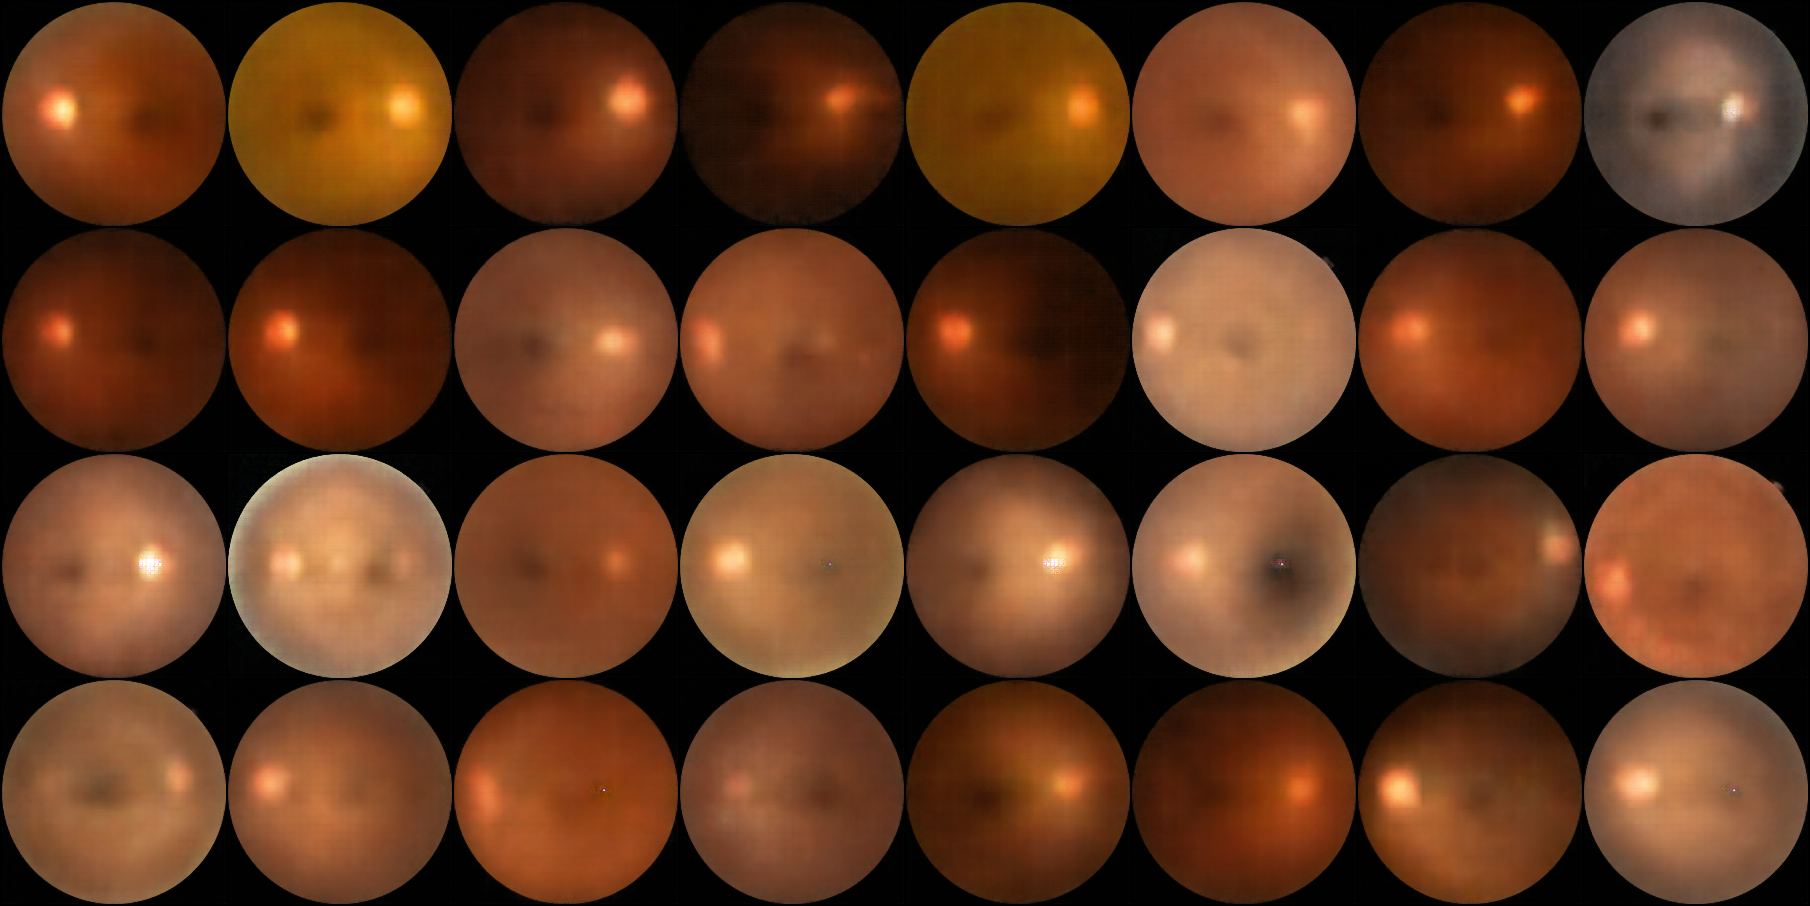
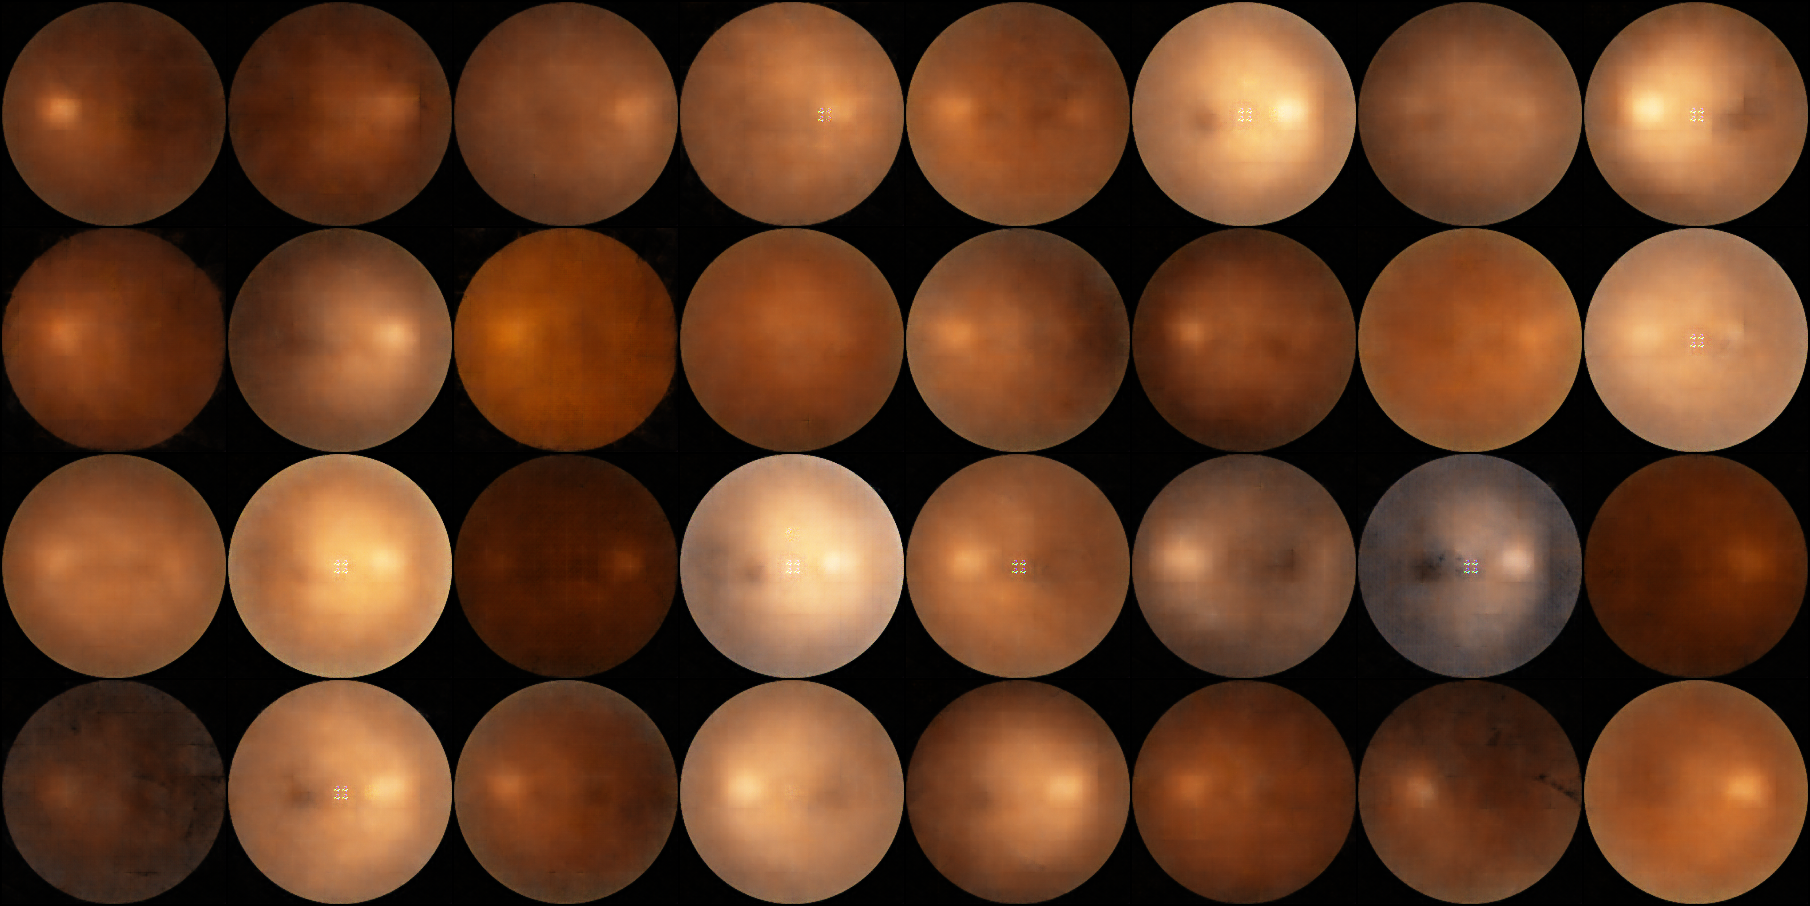
Progress
TODO
anomaly detection part and the CNN

diff --git a/Model/run.py b/Model/run.py
@@ -2,12 +2,17 @@ import torch
 import torchmetrics
 import torchvision
 import VAE
+import numpy as np
+import math
 import RetinalDataLoader
 from VAE import AnomalyVariationalAutoEncoder
 from RetinalDataLoader import RetinalDiseaseLoader
 from torch.utils.data import DataLoader
 from torch.optim import Adam
+from torch.optim.lr_scheduler import ReduceLROnPlateau
+from torchvision import datasets
 from torchvision.utils import save_image
+from torchvision.transforms import v2 
 import matplotlib.pyplot as plt
 
 #CONFIG
@@ -15,26 +20,38 @@ import matplotlib.pyplot as plt
 DEVICE=torch.device('cuda' if torch.cuda.is_available() else 'cpu')
 print(DEVICE)
 INPUTCHANNELS=3
-LATENTDIM=256
+LATENTDIM=64
 RDIM=32*7*7
 LATENTSHAPE=(32,7,7)
 BATCHSIZE=32
 
-KLSCALEFIX=224*224*3 #divide by this so that the KL loss wont dominate when we use mean instead of sum 
+RECONSCALEFIX=224*224*3 #divide by this so that the KL loss wont dominate when we use mean instead of sum 
 
+#0.001
 LR=1e-3
 
-BETA=0.5
 
-NUMEPOCHS=300
+BETA=20
+NUMEPOCHS=210
 
 
 #DATASET LOADER
 trainDatasetLoad=RetinalDiseaseLoader(r'C:\Users\hamza\OneDrive\Desktop\HOnours\Advanced Ai\Proj Data\archive\process2\train(Processed)\Normal',True)
 validationDatasetLoad=RetinalDiseaseLoader(r'C:\Users\hamza\OneDrive\Desktop\HOnours\Advanced Ai\Proj Data\archive\process2\val(Processed)\Normal',False)
 
+transform=v2.Compose([
+    v2.RandomRotation(15),
+    v2.ToTensor(),
+])
+
+anomalyDatasetLoad=datasets.ImageFolder(r'C:\Users\hamza\OneDrive\Desktop\HOnours\Advanced Ai\Proj Data\archive\process2\trainAnomaly',transform)
+
+
+
+
 trainSet=DataLoader(trainDatasetLoad,batch_size=BATCHSIZE,shuffle=True)
 validSet=DataLoader(validationDatasetLoad,batch_size=BATCHSIZE,shuffle=False)
+anomalyset=DataLoader(anomalyDatasetLoad,batch_size=BATCHSIZE,shuffle=True)
 
 #MODEL DEFINITION
 
@@ -44,10 +61,12 @@ AnomalyVAE=AnomalyVariationalAutoEncoder(INPUTCHANNELS,LATENTDIM,RDIM,LATENTSHAP
 
 #optimisers/early stopping/loss
 
-lossFn=torch.nn.MSELoss(reduction="mean")
+lossFn=torch.nn.MSELoss(reduction="sum")
+
 
 optimiser=Adam(AnomalyVAE.parameters(),lr=LR)
 
+lrScheduler=ReduceLROnPlateau(optimizer=optimiser,mode='min',patience=40,factor=0.5)
 
 
 
@@ -59,9 +78,30 @@ torch.cuda.manual_seed(seed)
 torch.backends.cudnn.deterministic = True
 
 
-def trainingStep(epoch):
+def sigmoidKlAnnealing(timeStep,slope=1,start=None):
+    return float(1/(1+np.exp(slope*(start-float(timeStep)))))
+    
+
+def anomalyCheck(epoch):
+    for b,(x,y) in enumerate(anomalyset):
+        x,y=x.to(DEVICE),y.to(DEVICE)
+
+def savingModel(Epoch,model,loss,optimiser,Path):
+
+    torch.save({
+        'modelStateDict':model.state_dict(),
+        'loss':loss,
+        'optimiserStateDict':optimiser.state_dict(),
+        'epoch':Epoch
+    },Path)
+
+
+
+
+def trainingStep(epoch,BETA):
     epochRecon,epochKL,epochTotal=0.0,0.0,0.0
     AnomalyVAE.train()
+    
     for batch,x in enumerate(trainSet):
         #reset the grad start each epoch so it does not accumulate
         
@@ -73,11 +113,17 @@ def trainingStep(epoch):
 
         reconLoss=lossFn(xRecon,x)
 
-        klLoss=(-0.5*torch.sum(1+logvar-mu.pow(2)-logvar.exp(),dim=1)).mean()
+        klLoss=(-0.5*torch.sum(1+logvar-mu.pow(2)-logvar.exp()))
 
-        klLoss=klLoss/KLSCALEFIX
 
-        totalLoss=reconLoss+klLoss
+        #Fix the scale of the losses before backprop and sumation
+        reconLoss=reconLoss/RECONSCALEFIX
+
+        klLoss=klLoss/RECONSCALEFIX
+
+        totalLoss=reconLoss+BETA*klLoss
+     
+   
 
         #backpropagate the loss 
 
@@ -85,7 +131,7 @@ def trainingStep(epoch):
         totalLoss.backward()
 
         optimiser.step()
-
+        
         epochRecon+=reconLoss.item()
         epochKL+=klLoss.item()
         epochTotal+=totalLoss.item()
@@ -94,48 +140,109 @@ def trainingStep(epoch):
     if epoch%30==0:
         sampling(epoch=epoch)
     print(f" Training Epoch {epoch}->ReconLoss: {epochRecon} | KLLoss: {epochKL} | TotalLoss: {epochTotal}")
+    return epochRecon,epochKL,epochTotal
 
-def validationStep(epoch):
+def validationStep(epoch,BETA):
     epochValRecon,epochValKL,epochValTotal=0.0,0.0,0.0
+
     for batch,x in enumerate(validSet):
         #Set to eval to eliminate the batch norm layers 
         AnomalyVAE.eval()
 
         with torch.no_grad():
             x=x.to(DEVICE)
-        
+       
+         
             xRecon,mu,logvar=AnomalyVAE(x)
         
             reconValLoss=lossFn(xRecon,x)
         
-            klValLoss=(-0.5*torch.sum(1+logvar-mu.pow(2)-logvar.exp(),dim=1)).mean()
+            klValLoss=(-0.5*torch.sum(1+logvar-mu.pow(2)-logvar.exp()))
 
-            klValLoss=klValLoss/KLSCALEFIX
 
-            totalValLoss=reconValLoss+klValLoss
+            #Scale the loss accordingly
+
+            reconValLoss=reconValLoss/RECONSCALEFIX
+
+            klValLoss=klValLoss/RECONSCALEFIX
+
+            totalValLoss=reconValLoss+BETA*klValLoss
         
-        
+
+            #Lear Rate Scheduler
+            #lrScheduler.step(totalValLoss)
+
             epochValRecon+=reconValLoss.item()
             epochValKL+=klValLoss.item()
             epochValTotal+=totalValLoss.item()
     print(f" Validation Epoch {epoch}->ReconLoss: {epochValRecon} | KLLoss: {epochValKL} | TotalLoss: {epochValTotal}")        
     return epochValRecon,epochValKL,epochValTotal
 
+def plotChart(xLab,yLab,title,arr1,arr2,arrLegend,pathSave):
+
+    plt.title(title)
+    plt.plot(arr1)
+    plt.plot(arr2)
+    plt.xlabel(xLab)
+    plt.ylabel(yLab)
+    plt.legend(arrLegend)
+    plt.savefig(pathSave)
+    plt.clf()
+
+
+
 def trainingLoop():
+    #This ensures that beta slowly trends upwards from 0 so we can start with more focus on recon loss and then after 100 epochs we can then focus more on the 
+    #KL anealing
+    trainReconL=[]
+    trainKLL=[]
+    trainTotalL=[]
+    validReconL=[]
+    validKLL=[]
+    validTotalL=[]
+
+
+    bestValidationLoss=float('inf') # absolute biggest loss value possible
     for E in range(NUMEPOCHS):
-        trainingStep(E)
-        validationStep(E)
+       ## BETA=sigmoidKlAnnealing(E,0.1,100)
+      ##  BETA=min(BETACLAMP,BETA) #clamp it because when beta gets close to 1 alot of reconstruction accuracy is lost
+        
+        print(BETA)
+        trRec,trKL,trTot=trainingStep(E,BETA)
+        vlRec,vlKL,vlTot=validationStep(E,BETA)
+
+        #append the values to array to use in charts later
+        trainReconL.append(trRec)
+        trainKLL.append(trKL)
+        trainTotalL.append(trTot)
+        #validation section
+        validReconL.append(vlRec)
+        validKLL.append(vlKL)
+        validTotalL.append(vlTot)
+
+        if vlTot<bestValidationLoss:
+            savingModel(E,AnomalyVAE,vlTot,optimiser,'bestModel.tar')
+            bestValidationLoss=vlTot
+
+    plotChart('Epoch','Reconstruction Loss','VAE Recon Loss',trainReconL,validReconL,['train','val'],'trainVSvalRecon.png')
+    plotChart('Epoch','KL Loss','VAE KL Loss',trainKLL,validKLL,['train','val'],'trainVSvalKLL.png')
+    plotChart('Epoch','Total Loss','VAE Total Loss',trainTotalL,validTotalL,['train','val'],'trainVSvalTOT.png')
+
+def anomalyCheck(E):
+    pass
+
+
 
 def sampling(epoch,numSave=5):
     AnomalyVAE.eval()
     with torch.no_grad():
         x=next(iter(trainSet))
         x=x.to(DEVICE)
-       # z = torch.randn(BATCHSIZE, LATENTDIM)  # sample from prior
-       # z=z.to(DEVICE)
-        x_generated,mu,sigma = AnomalyVAE(x)  
+        z = torch.randn(BATCHSIZE, LATENTDIM)  # sample from gaus normal and see if we can get good looking recons
+        z=z.to(DEVICE)
+        x_generated,mu,sigma = AnomalyVAE(x) 
+ 
 
-        x_generated=x_generated.to('cpu')
         output=x_generated.view(-1,3,224,224)
 
         n=5
@@ -155,9 +262,17 @@ def sampling(epoch,numSave=5):
 
         plt.tight_layout()
         plt.savefig("recon_check.png")
+        plt.clf()
         save_image(output,f"Generated{epoch}.png")
+
+        randomSample=AnomalyVAE.decoder(z)
+
+
+        randomSample=randomSample.view(-1,3,224,224)
+        xRanRec=randomSample.to('cpu')
+        save_image(xRanRec,f"GeneratedRandom{epoch}.png")
 
 
 
 trainingLoop()
-sampling(300)
+sampling(210)

diff --git a/Model/RetinalAnomalyLoader.py b/Model/RetinalAnomalyLoader.py
@@ -1,0 +1,39 @@
+import torch
+import torchvision
+from torch.utils.data import dataloader
+from torch.utils.data import Dataset
+from torchvision.transforms import v2
+import os
+import numpy as np
+from PIL import Image
+
+class RetinalDiseaseLoader(Dataset):
+
+
+    def __init__(self,rootDir,trainMode=True):
+        super().__init__()
+        self.rootDir=rootDir
+        self.images=os.listdir(self.rootDir)
+
+        if trainMode==True:
+            self.transform=v2.Compose([
+                v2.RandomRotation(15),
+                v2.ToTensor(),
+            ])
+        else:
+            self.transform=v2.Compose([
+                v2.ToTensor(),
+            ])
+        self.trainMode=trainMode
+
+    def __getitem__(self, index):
+
+        imagePath=os.path.join(self.rootDir,self.images[index])
+        image=np.array(Image.open(imagePath))
+
+
+        image=self.transform(image)
+        return image
+
+    def __len__(self):
+        return len(self.images)

diff --git a/Model/test.py b/Model/test.py
@@ -1,0 +1,19 @@
+import torch
+from torchvision import datasets
+from torch.utils.data import DataLoader
+from torch.utils.data import Dataset
+from torchvision.transforms import v2
+import os
+import numpy as np
+from PIL import Image
+
+
+transform=v2.Compose([
+    v2.RandomRotation(15),
+    v2.ToTensor(),
+])
+
+dSet=datasets.ImageFolder(r'C:\Users\hamza\OneDrive\Desktop\HOnours\Advanced Ai\Proj Data\archive\process2\trainAnomaly',transform)
+
+
+print(f"classes: {dSet.__len__}")
